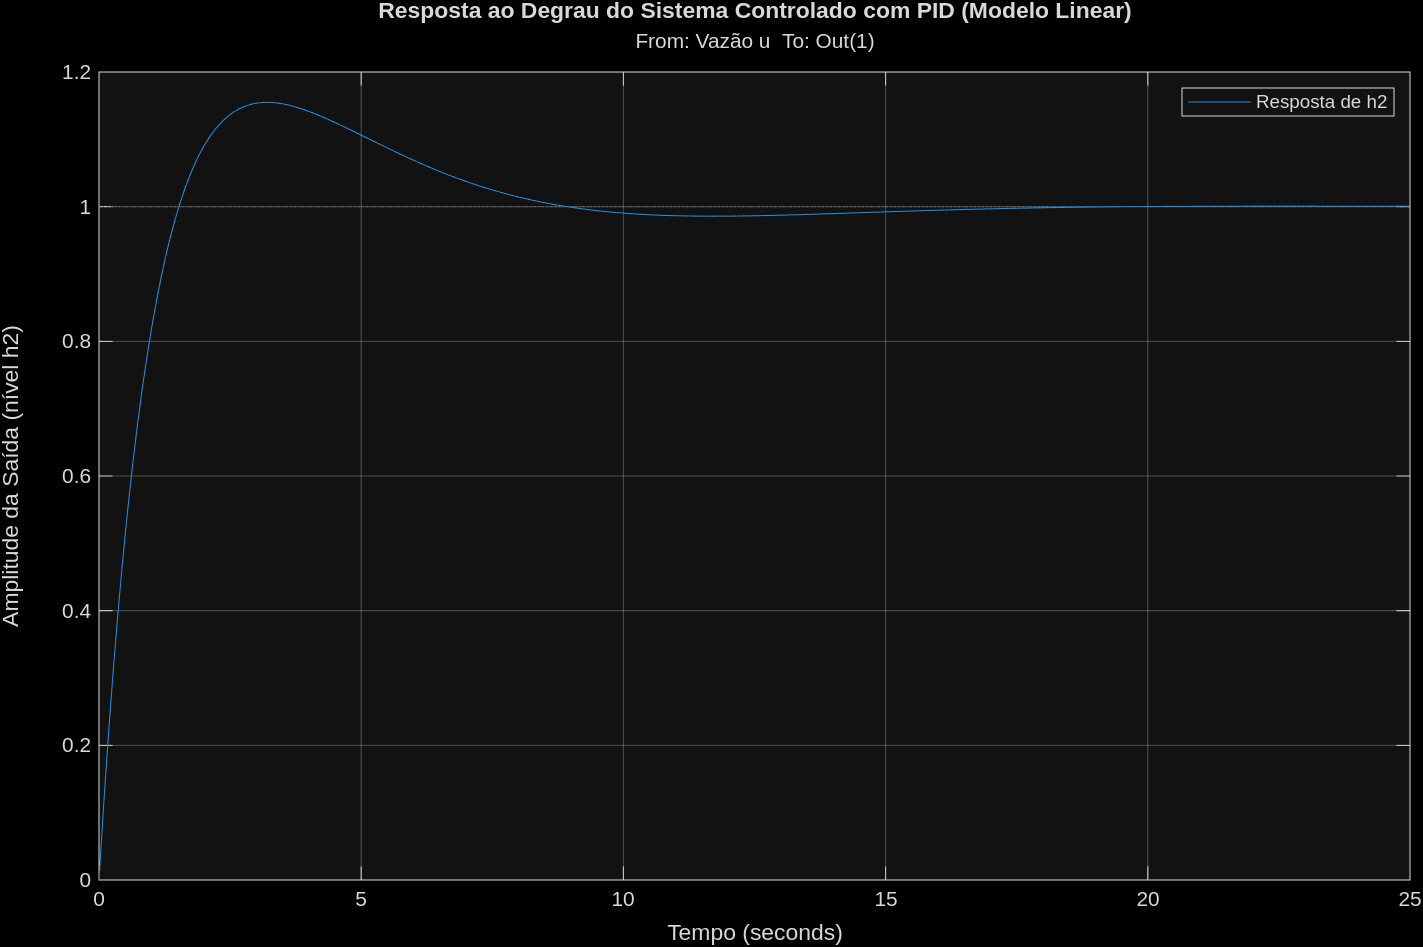
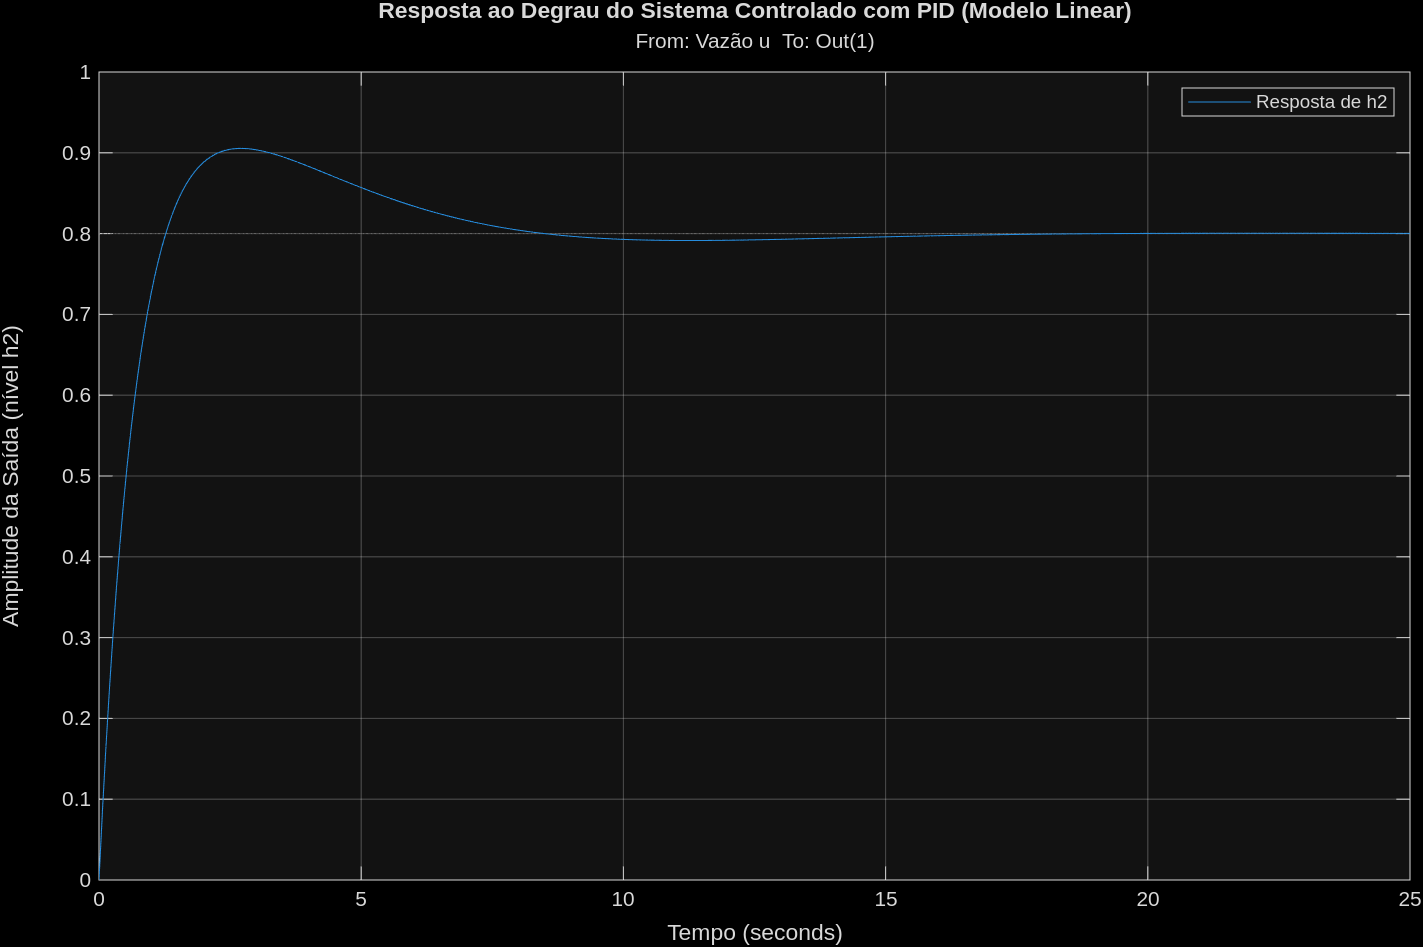
get 2 order params from PID answer

diff --git a/src/scripts/PID_Controler.m b/src/scripts/PID_Controler.m
@@ -13,9 +13,9 @@ display(G);
 %% 2. Definição dos Ganhos do Controlador PID
 % Ganhos calculados analiticamente pelo método do LGR com cancelamento de
 % polo -> MS < 5% e tr < 8s.
-Kp = 0.439; % atende requisitos em 0.6 -> aumentaman a agressividade da reação do sist., logo aumenta MS
-Ki = 0.1; % atende requisitos em 0.122 -> elimina erro de reg. perm.
-Kd = 0.81; % atende requisitos em 3 -> caráter preditivo sobre o erro: atenua ação de controle (aumenta o amortecimento), logo diminui o MS -> a partir de 2.3 o sist começa  a querer ter um carater de 1 ordem
+Kp = 0.6; % atende requisitos em 0.6 -> aumentaman a agressividade da reação do sist., logo aumenta MS
+Ki = 0.122; % atende requisitos em 0.122 -> elimina erro de reg. perm.
+Kd = 1.75; % atende requisitos em 3 -> caráter preditivo sobre o erro: atenua ação de controle (aumenta o amortecimento), logo diminui o MS -> a partir de 2.3 o sist começa  a querer ter um carater de 1 ordem
 
 % controlador PID
 C = pid(Kp, Ki, Kd);
@@ -48,7 +48,15 @@ legend('Resposta de h2');
 
 % Exibição das métricas de desempenho no Command Window
 info = stepinfo(0.8*T);
+MS = info.Overshoot;
+zeta = sqrt(((log(MS/100))^2)/((pi^2)+((log(MS/100))^2)));
+tr = info.RiseTime;
+wn = (pi - acos(zeta))/ (tr*(sqrt(1-((zeta)^2)))); 
 disp(' ');
 disp('Métricas de Desempenho da Resposta ao Degrau (Linear):');
-fprintf('Overshoot (MS): %.3f %%\n', info.Overshoot);
-fprintf('Tempo de Subida (tr): %.3f s\n', info.RiseTime);
+fprintf('Overshoot (MS): %.3f %%\n', MS);
+fprintf('Tempo de Subida (tr): %.3f s\n', tr);
+disp(' ');
+disp('Parâmetros do sistema:');
+fprintf('Fator de Amortecimento: %.3f \n', zeta);
+fprintf('Frequência Natural: %.3f rad/s\n', wn);
